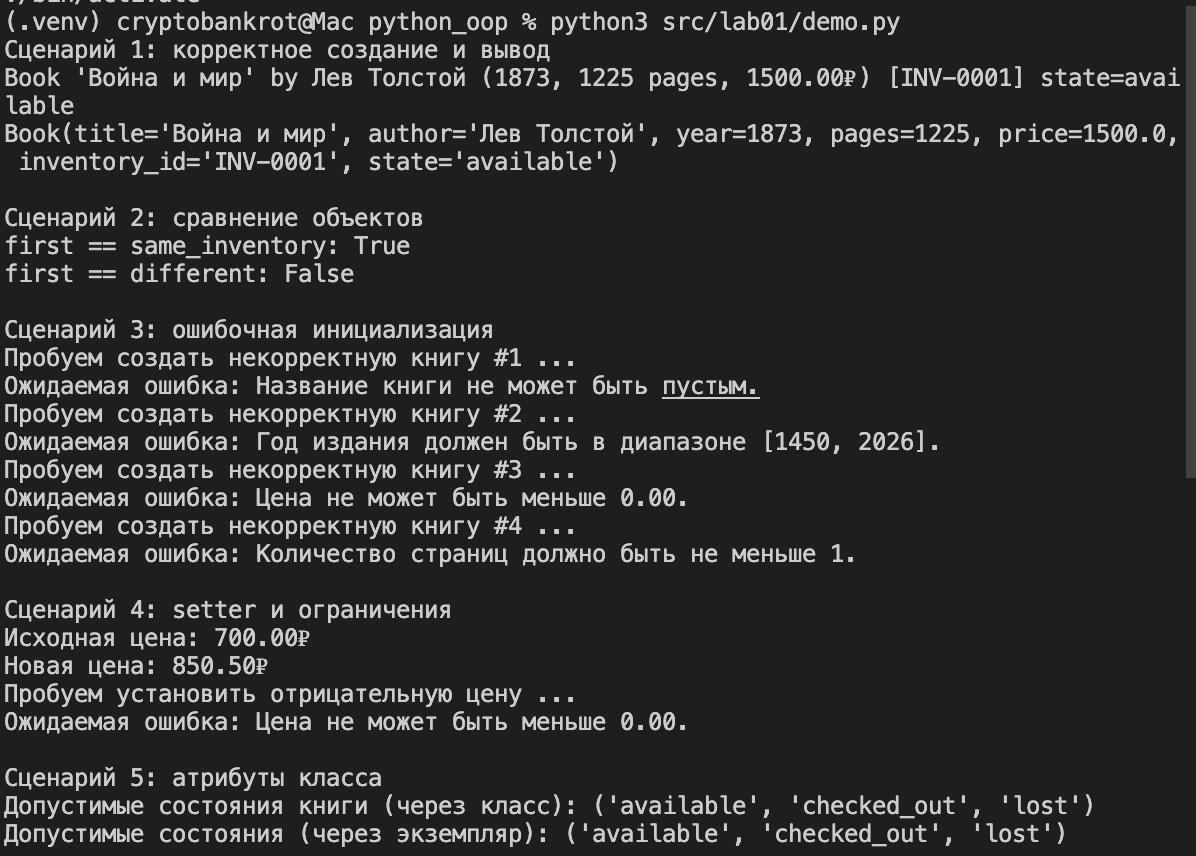
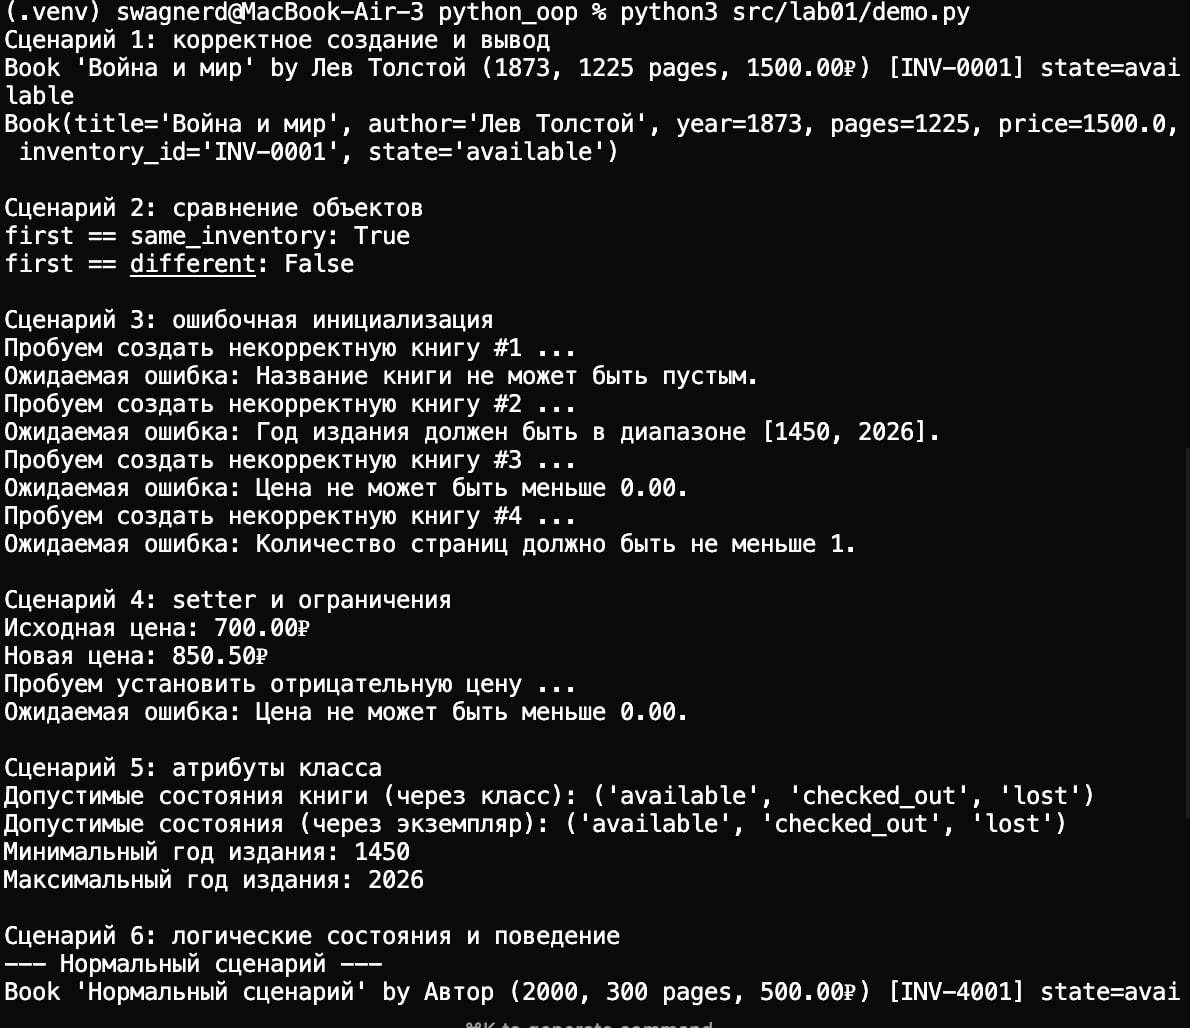
e

Changed region(s): [[0.0, 0.0, 1.0, 1.0], [0.8084, 0.7593, 0.9328, 0.8201]]

diff --git a/src/lab01/model.py b/src/lab01/model.py
@@ -1,5 +1,26 @@
 from __future__ import annotations
 
+try:
+    from .validate import (
+        validate_author,
+        validate_inventory_id,
+        validate_pages,
+        validate_price,
+        validate_state,
+        validate_title,
+        validate_year,
+    )
+except ImportError:
+    from validate import (
+        validate_author,
+        validate_inventory_id,
+        validate_pages,
+        validate_price,
+        validate_state,
+        validate_title,
+        validate_year,
+    )
+
 
 class BookValidationError(ValueError):
     """Исключение для ошибок валидации данных книги"""
@@ -35,13 +56,18 @@ class Book:
         inventory_id: str,
         state: str = BookState.AVAILABLE,
     ) -> None:
-        self._title: str = self._validate_title(title)
-        self._author: str = self._validate_author(author)
-        self._year: int = self._validate_year(year)
-        self._pages: int = self._validate_pages(pages)
-        self._price: float = self._validate_price(price)
-        self._inventory_id: str = self._validate_inventory_id(inventory_id)
-        self._state: str = self._validate_state(state)
+        self._title: str = validate_title(title, BookValidationError)
+        self._author: str = validate_author(author, BookValidationError)
+        self._year: int = validate_year(
+            year,
+            self.MIN_YEAR,
+            self.MAX_YEAR,
+            BookValidationError,
+        )
+        self._pages: int = validate_pages(pages, self.MIN_PAGES, BookValidationError)
+        self._price: float = validate_price(price, self.MIN_PRICE, BookValidationError)
+        self._inventory_id: str = validate_inventory_id(inventory_id, BookValidationError)
+        self._state: str = validate_state(state, self.ALLOWED_STATES, BookValidationError)
 
     @property
     def title(self) -> str:
@@ -65,7 +91,7 @@ class Book:
 
     @price.setter
     def price(self, value: float) -> None:
-        self._price = self._validate_price(value)
+        self._price = validate_price(value, self.MIN_PRICE, BookValidationError)
 
     @property
     def inventory_id(self) -> str:
@@ -126,70 +152,3 @@ class Book:
                 f"Нельзя пометить книгу как утерянную из состояния {self._state!r}."
             )
         self._state = BookState.LOST
-
-    
-    def _validate_title(self, value: str) -> str:
-        if not isinstance(value, str):
-            raise BookValidationError("Название книги должно быть строкой.")
-        cleaned = value.strip()
-        if not cleaned:
-            raise BookValidationError("Название книги не может быть пустым.")
-        return cleaned
-
-    def _validate_author(self, value: str) -> str:
-        if not isinstance(value, str):
-            raise BookValidationError("Автор должен быть строкой.")
-        cleaned = value.strip()
-        if not cleaned:
-            raise BookValidationError("Имя автора не может быть пустым.")
-        return cleaned
-
-    def _validate_year(self, value: int) -> int:
-        if not isinstance(value, int):
-            raise BookValidationError("Год издания должен быть целым числом.")
-        if not (self.MIN_YEAR <= value <= self.MAX_YEAR):
-            raise BookValidationError(
-                f"Год издания должен быть в диапазоне "
-                f"[{self.MIN_YEAR}, {self.MAX_YEAR}]."
-            )
-        return value
-
-    def _validate_pages(self, value: int) -> int:
-        if not isinstance(value, int):
-            raise BookValidationError("Количество страниц должно быть целым числом.")
-        if value < self.MIN_PAGES:
-            raise BookValidationError(
-                f"Количество страниц должно быть не меньше {self.MIN_PAGES}."
-            )
-        return value
-
-    def _validate_price(self, value: float) -> float:
-        if not isinstance(value, (int, float)):
-            raise BookValidationError("Цена должна быть числом.")
-        price = float(value)
-        if price < self.MIN_PRICE:
-            raise BookValidationError(
-                f"Цена не может быть меньше {self.MIN_PRICE:.2f}."
-            )
-        return round(price, 2)
-
-    def _validate_state(self, value: str) -> str:
-        if not isinstance(value, str):
-            raise BookValidationError("Состояние должно быть строкой.")
-        if value not in self.ALLOWED_STATES:
-            allowed = ", ".join(self.ALLOWED_STATES)
-            raise BookValidationError(
-                f"Недопустимое состояние {value!r}. "
-                f"Разрешённые значения: {allowed}."
-            )
-        return value
-
-    def _validate_inventory_id(self, value: str) -> str:
-        if not isinstance(value, str):
-            raise BookValidationError("Инвентарный номер должен быть строкой.")
-        cleaned = value.strip()
-        if not cleaned:
-            raise BookValidationError("Инвентарный номер не может быть пустым.")
-        return cleaned
-
-

diff --git a/src/lab01/validate.py b/src/lab01/validate.py
@@ -1,0 +1,80 @@
+from __future__ import annotations
+
+from typing import Callable
+
+
+ErrorFactory = Callable[[str], Exception]
+
+
+def validate_title(value: str, error_factory: ErrorFactory) -> str:
+    if not isinstance(value, str):
+        raise error_factory("Название книги должно быть строкой.")
+    cleaned = value.strip()
+    if not cleaned:
+        raise error_factory("Название книги не может быть пустым.")
+    return cleaned
+
+
+def validate_author(value: str, error_factory: ErrorFactory) -> str:
+    if not isinstance(value, str):
+        raise error_factory("Автор должен быть строкой.")
+    cleaned = value.strip()
+    if not cleaned:
+        raise error_factory("Имя автора не может быть пустым.")
+    return cleaned
+
+
+def validate_year(
+    value: int,
+    min_year: int,
+    max_year: int,
+    error_factory: ErrorFactory,
+) -> int:
+    if not isinstance(value, int):
+        raise error_factory("Год издания должен быть целым числом.")
+    if not (min_year <= value <= max_year):
+        raise error_factory(
+            f"Год издания должен быть в диапазоне [{min_year}, {max_year}]."
+        )
+    return value
+
+
+def validate_pages(value: int, min_pages: int, error_factory: ErrorFactory) -> int:
+    if not isinstance(value, int):
+        raise error_factory("Количество страниц должно быть целым числом.")
+    if value < min_pages:
+        raise error_factory(f"Количество страниц должно быть не меньше {min_pages}.")
+    return value
+
+
+def validate_price(value: float, min_price: float, error_factory: ErrorFactory) -> float:
+    if not isinstance(value, (int, float)):
+        raise error_factory("Цена должна быть числом.")
+    price = float(value)
+    if price < min_price:
+        raise error_factory(f"Цена не может быть меньше {min_price:.2f}.")
+    return round(price, 2)
+
+
+def validate_state(
+    value: str,
+    allowed_states: tuple[str, ...],
+    error_factory: ErrorFactory,
+) -> str:
+    if not isinstance(value, str):
+        raise error_factory("Состояние должно быть строкой.")
+    if value not in allowed_states:
+        allowed = ", ".join(allowed_states)
+        raise error_factory(
+            f"Недопустимое состояние {value!r}. Разрешённые значения: {allowed}."
+        )
+    return value
+
+
+def validate_inventory_id(value: str, error_factory: ErrorFactory) -> str:
+    if not isinstance(value, str):
+        raise error_factory("Инвентарный номер должен быть строкой.")
+    cleaned = value.strip()
+    if not cleaned:
+        raise error_factory("Инвентарный номер не может быть пустым.")
+    return cleaned

diff --git a/src/lab01/README.md b/src/lab01/README.md
@@ -1,15 +1,99 @@
-# лабараторная работа №1
+# Лабораторная работа №1
+## Тема: ООП в Python. Класс `Book`
 
-**классы все дела**
+### Идея работы
+В рамках лабораторной реализован класс `Book`, который описывает книгу в библиотечной системе.
+Модель хранит основные данные о книге (название, автор, год, страницы, цена, инвентарный номер),
+поддерживает логические состояния экземпляра и контролирует корректность входных данных через валидацию.
 
-__str__ - для вывода прочтения текста, который выводится в человеческом формате
-__repr__ - для разработчиков, вывод в удобном для дебага формате
-__eq__ - определяет как сравнивать объекты оператором ==
+### Цели лабораторной работы
+- Научиться создавать пользовательские классы в Python
+- Закрепить инкапсуляцию через закрытые поля (`_attribute`)
+- Реализовать доступ к данным через `@property` и `setter`
+- Переопределить магические методы (`__str__`, `__repr__`, `__eq__`)
+- Понять отличие атрибутов класса от атрибутов экземпляра
 
-изменения атрибута класса скажется на всех экземплярах, по простому это изменение общего типа, допустим мы добавим переменную цвет и поставим ее равной green, то все экземпляры класса(книги в моем случае) станут зелеными(в частности имею в виду обложжку, не страницы)
+### Класс `Book`
 
-а изменение экземпляра класса повлияет только на конкретный объект
+Атрибуты класса:
+- `ALLOWED_STATES` — допустимые состояния книги
+- `MIN_YEAR`, `MAX_YEAR` — диапазон года издания
+- `MIN_PRICE` — минимальная цена
+- `MIN_PAGES` — минимальное количество страниц
 
-@property - позволяет обращаться к функции как к атрибуту
+Закрытые поля:
+- `_title`, `_author`, `_year`, `_pages`, `_price`
+- `_inventory_id` — инвентарный номер
+- `_state` — текущее состояние (`available` / `checked_out` / `lost`)
 
-![Вывод](../../images/lab01/001.jpg)
+Свойства `@property`:
+- Только чтение: `title`, `author`, `year`, `pages`, `inventory_id`, `state`
+- Чтение и запись: `price` (через setter с проверкой)
+
+Магические методы:
+- `__str__` — удобный человекочитаемый вывод
+- `__repr__` — подробное представление для разработки и отладки
+- `__eq__` — сравнение книг по `inventory_id`
+
+Бизнес-методы:
+- `checkout()` — выдать книгу
+- `return_book()` — вернуть книгу
+- `mark_lost()` — отметить как утерянную
+
+### Отдельный модуль валидации
+Проверки входных данных вынесены из модели в `validate.py`.
+В файле размещены функции:
+- `validate_title`
+- `validate_author`
+- `validate_year`
+- `validate_pages`
+- `validate_price`
+- `validate_state`
+- `validate_inventory_id`
+
+Такое разделение делает модель проще, а валидацию — переиспользуемой и более удобной для тестирования.
+
+## Демонстрация работы (`demo.py`)
+
+![Book](../../images/lab01/001.jpg)
+
+Сценарий 1: Корректное создание и вывод
+- Создаётся валидный объект `Book`
+- Показывается вывод через `print(book)` и `repr(book)`
+
+Подтверждает, что объект создаётся корректно, а магические методы форматируют вывод по назначению.
+
+Сценарий 2: Сравнение объектов
+- Создаётся две книги с одинаковым `inventory_id`
+- Создаётся книга с другим `inventory_id`
+- Выполняется сравнение через `==`
+
+Показывает, что логика `__eq__` основана на инвентарном номере как на идентификаторе экземпляра.
+
+Сценарий 3: Ошибки при создании
+- Пустое название
+- Год вне диапазона
+- Отрицательная цена
+- Нулевое число страниц
+
+Демонстрирует обработку ошибок валидации и защиту модели от некорректных данных.
+
+Сценарий 4: Setter для цены
+- Чтение начальной цены
+- Установка корректного нового значения
+- Попытка задать отрицательную цену
+
+Иллюстрирует работу `@property` + `setter` и контроль корректности при изменении поля.
+
+Сценарий 5: Атрибуты класса
+- Вывод `ALLOWED_STATES` через класс и через объект
+- Вывод ограничений `MIN_YEAR` и `MAX_YEAR`
+
+Показывает, что атрибуты класса являются общими для всех экземпляров.
+
+Сценарий 6: Переходы состояний книги
+- Нормальная цепочка: `available -> checked_out -> available`
+- Невалидный переход: повторный `checkout()`
+- Сценарий утери: `mark_lost()` и попытка выдать утерянную книгу
+
+Подтверждает работу бизнес-правил и ограничений переходов между состояниями.
